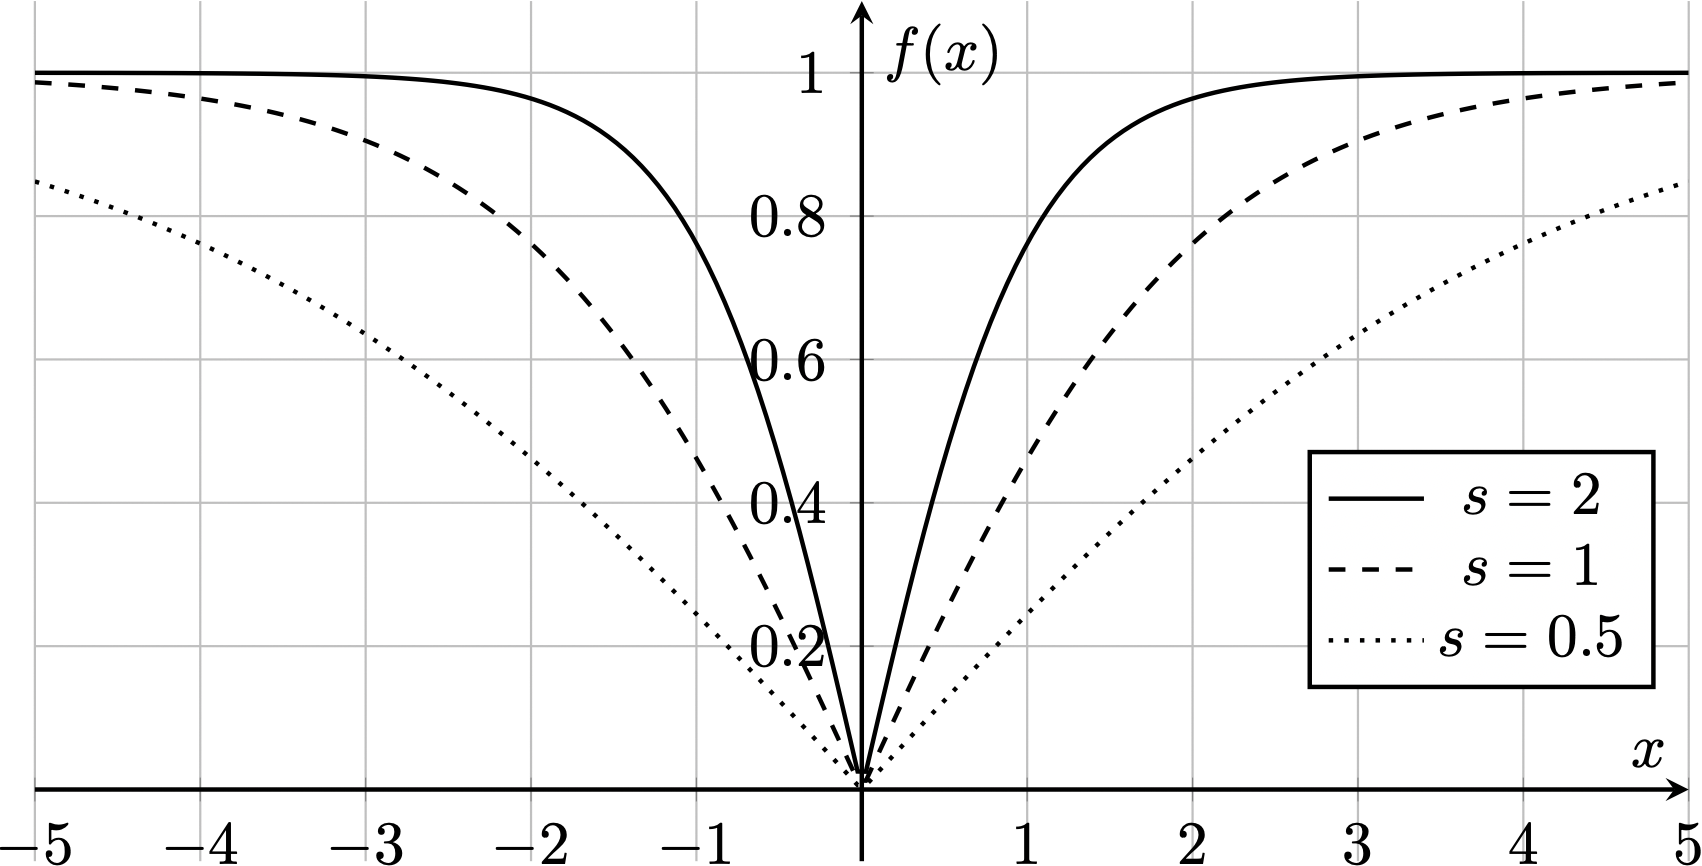
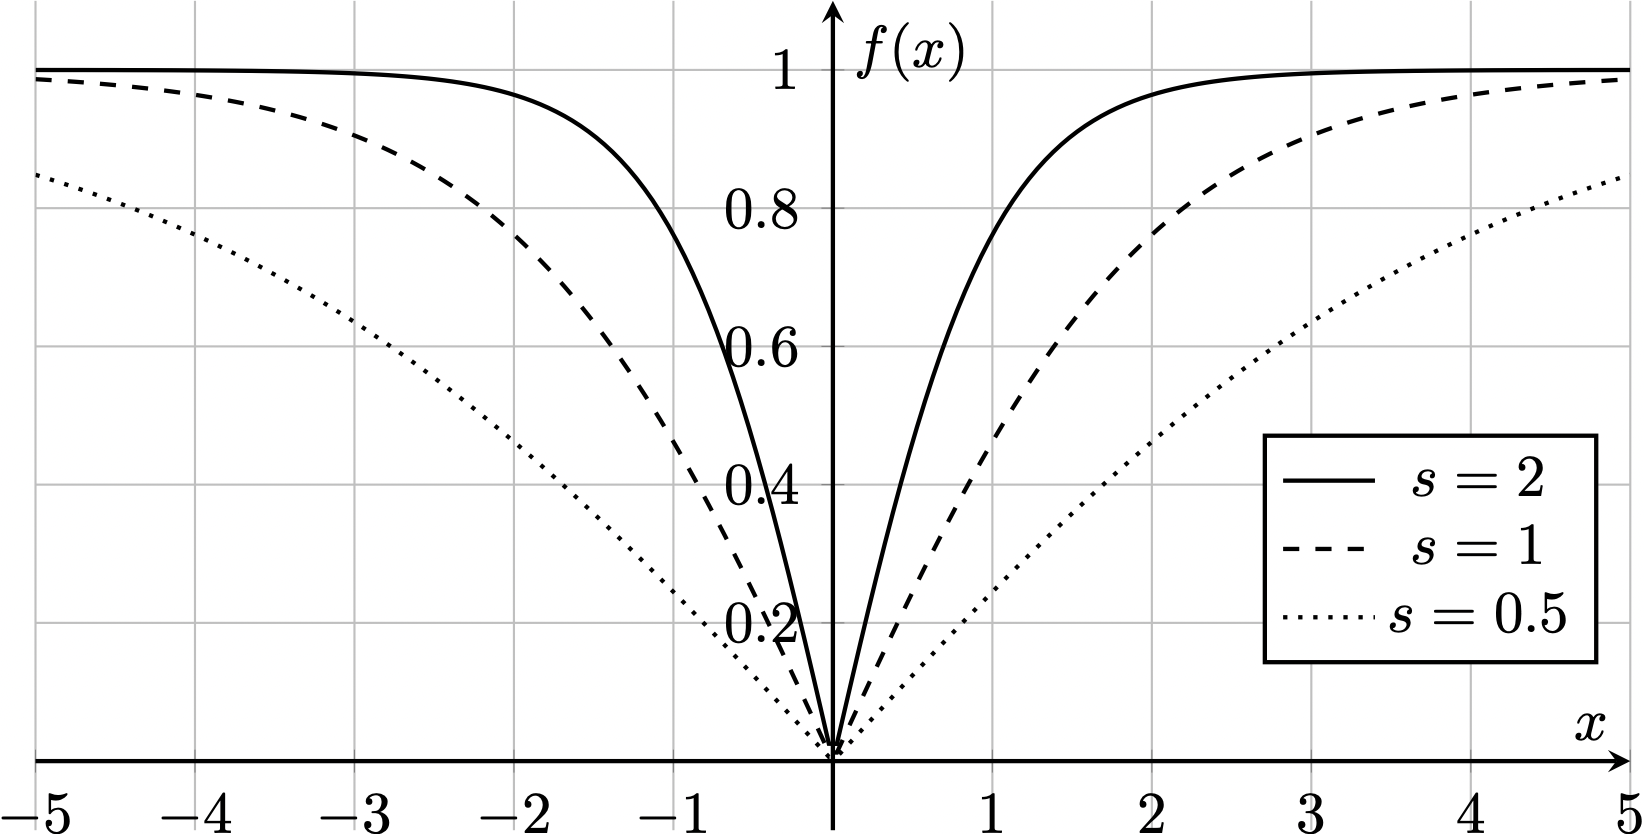
edited the curriculum learning and reward sections and added higher res images

diff --git a/README.md b/README.md
@@ -129,13 +129,13 @@ $`\dot\theta_\text{L/R wheel}`$, the robot's x-velocity $`\dot x`$ and y angular
 ### High level training
 We have implemented training for two algorithms: Stable Baselines3 [PPO](https://stable-baselines3.readthedocs.io/en/master/modules/ppo.html) and [SAC](https://stable-baselines3.readthedocs.io/en/master/modules/sac.html)
 
-The configuration of a training is stored in a `.YAML` file which has to be provided as an
+The configuration of a training is stored in a ``.YAML`` file which has to be provided as an
 argument when starting the training. Basic configuration files for [PPO](./training/basic_PPO.yaml) and [SAC](./training/basic_SAC.yaml) with all necessary
-entries are provided. In addition to that there is command line arguments to
+entries are provided. In addition to that there are command line arguments to
 configure the training process further.
 
 The training can be parallelized. Each additional training environment (can be set
-with ``--num_envs n``) consumes around 230 MB of RAM.
+with ``--num_envs n``) consumes around 220 MB of RAM.
 
 A training can be started with a pretrained model to continue with different settings
 or perturbations (provide path to zip with ``--cont_train X``)
@@ -151,64 +151,54 @@ The general training process is as follows:
 
 
 #### Curriculum Learning
-The curriculum learning callback calculates a difficulty scalar $[0, 1]$ depending on
+[CurriculumCallback.py](CurriculumCallback.py) calculates a difficulty scalar $[0, 1]$ depending on
 the current training step progress $`x := \frac{n_{step}}{N_{step}}`$ and sets the
-difficulty in the environment(s). The difficulty function can be configured, the
-default is a sigmoid function $\sigma(x)$ which showed the best results during our trainings.
-We introduce two tuning parameters here:
-$g$ controls the slope or growth and $x_\text{offset}$ shifts horizontally.
+difficulty in the environment(s). The underlying difficulty function used can be configured, with the
+default being a sigmoid function
+
+$`\tilde\sigma_{g,x_\text{offest}}(x) = \dfrac{1}{1 + e^{-g(x + x_{\text{offset}})}}\;,`$
+
+which showed the best results during our trainings.
+We introduced two tuning parameters here:
+$g$ controls the slope or _growth_ and $x_\text{offset}$ shifts horizontally.
 Since our step progress $x$ is $\in [0, 1]$, the starting difficulty will be at the $y$-intercept.
 
-$`
-\sigma(x) = \dfrac{1}{1 + e^{-g(x + x_{\text{offset}})}}
-`$
-
-![curriculum learning](README_figures/curriculum_learning.jpg)
+[//]: # (Some variations of the difficulty function:)
+![curriculum learning](README_figures/curriculum_learning.png)
 
 
 #### Reward Function
-At first we tried a simple reward function that uses the square of the measured sensor data 
-$(\cdot)^2$ (to make sure the result is positive and smooth) together with a corresponding 
-customizable penalizing factor $`\lambda_{(\cdot)}`$. 
-This was combined with a constant bonus $`c_\text{alive bonus}`$ if the robot is *alive*.
+At first we tried a very simple reward function that uses the square of the measured sensor data 
+(observation) ${o_i}^2$ (to make sure the result is positive and smooth) together with a 
+corresponding customizable penalizing factor $`\lambda_{i}`$. 
+This was combined with a constant bonus $`c_\text{alive}`$ if the robot is _alive_:
 
-#TODO war hier x wirklich linear?
+$`\text{reward} = c_\text{alive} - \sum_{i} \lambda_{i} \, {o_i}^2`$
 
-$`
-\text{reward} = c_\text{alive bonus} -
-\lambda_{\theta_y} {\theta_y}^2 -
-\lambda_{\theta_x} {\theta_x}^2 -
-\lambda_{\dot \theta_\text{wheel}}\left( {\dot\theta_\text{left wheel}}^2 + {\dot\theta_\text{right wheel}}^2 \right) -
-\lambda_{x} x^2
-`$
+and for our specific setup:
 
-But in an effort to bound the reward for more consistent training with SAC in particular,
-we introduced a function $f$ which makes use of the sigmoid function $\sigma(x)$ and bounds
-each of our measured sensor data between $[0,1]$
+$`\text{reward} = c_\text{alive} - \lambda_{x} x^2 - \lambda_{\theta_x} {\theta_x}^2 - \lambda_{\theta_y} {\theta_y}^2 - \lambda_{\dot \theta_\text{wheel}}\left( {\dot\theta_\text{L wheel}}^2 + {\dot\theta_\text{R wheel}}^2 \right)\, .`$
 
-$`
-\begin{align}
-f(x) &= 2 \, \sigma(s|x|) - 1 \\
-     &= \dfrac{2}{1 + e^{-s|x|}} - 1
-\end{align}
-`$
 
-where $`s`$ scales the "slope" of the function and is used to adjust to the common range of $`x`$.
+To encourage more consistent training, particularly when using SAC, we introduced a bounding function
 
-![bounding function](README_figures/bounding_function.jpg)
+$`f_s: \mathbb{R} \rightarrow [0, 1]`$
 
-When we then specify, that $`\sum_i \lambda_i = 1`$ and $`c_\text{alive\_bonus} \in [0, 1]`$, our reward
-is bounded above by $`1`$
+that bounds each of the raw sensor data between $[0, 1]$ using a scaled sigmoid.
 
-$`
-\text{reward} = c_\text{alive bonus} -
-\lambda_{\theta_y} f(\theta_y) -
-\lambda_{\theta_x} f(\theta_x) -
-\lambda_{\dot \theta_\text{left wheel}} f\bigl(\dot\theta_\text{left wheel}\bigr) +
-\lambda_{\dot \theta_\text{left wheel}} f\bigl(\dot\theta_\text{right wheel}\bigr) -
-\lambda_{x} f(x) \leq 1
-`$
+$`\begin{align} f_s(x) &= 2 \cdot \sigma\bigl(s|x|\bigr) - 1 \\ &= \dfrac{2}{1 + e^{-s|x|}} - 1 \end{align}`$
 
+where $`s>0`$ controls the slope or steepness of the curve.
+It is adjusted such that the gradients within the expected range of $`x`$ do not vanish.
+This function ensures that large outliers or unbounded values do not dominate the reward during learning.
+
+![bounding function](README_figures/bounding_function.png)
+
+So the reward becomes:
+
+$`\begin{align} \text{reward} &= c_\text{alive} - \sum_{i} \lambda_{i} \, f_{s_i}(o_i) \\ &= c_\text{alive} - \lambda_{x} f_{s_x}(x) - \lambda_{\theta_x} f_{s_{\theta_x}}(\theta_x) - \lambda_{\theta_y} f_{s_{\theta_y}}(\theta_y) - \lambda_{\dot \theta_\text{wheel}} f_{s_{\dot\theta_\text{wheel}}}\bigl(\dot\theta_\text{L wheel}\bigr) + \lambda_{\dot \theta_\text{wheel}} f_{s_{\dot\theta_\text{wheel}}}\bigl(\dot\theta_\text{R wheel}\bigr) \leq 1\, , \end{align}`$
+
+which is bounded above by $`1`$ when we then require, that $`\sum_i \lambda_i = 1`$ and $`c_\text{alive} \in [0, 1]`$.
 
 ---
 ## 4. Achievements
